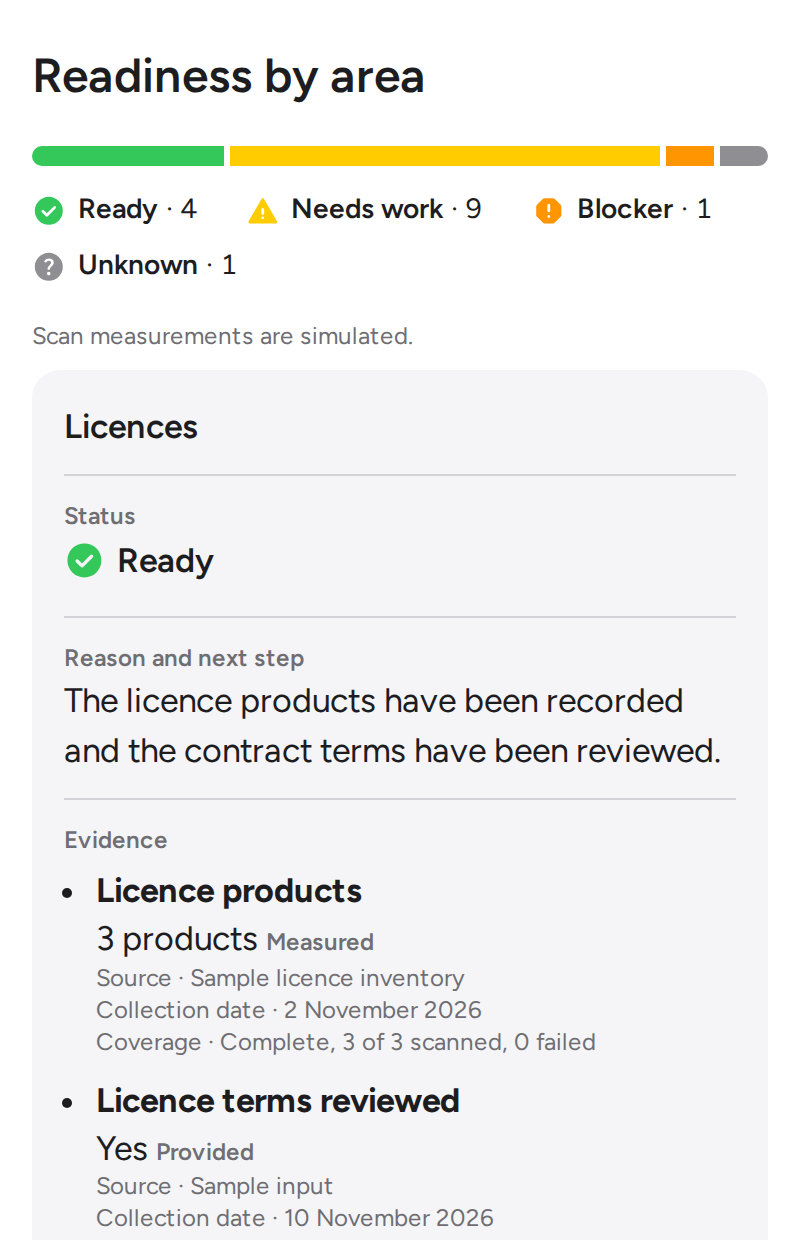
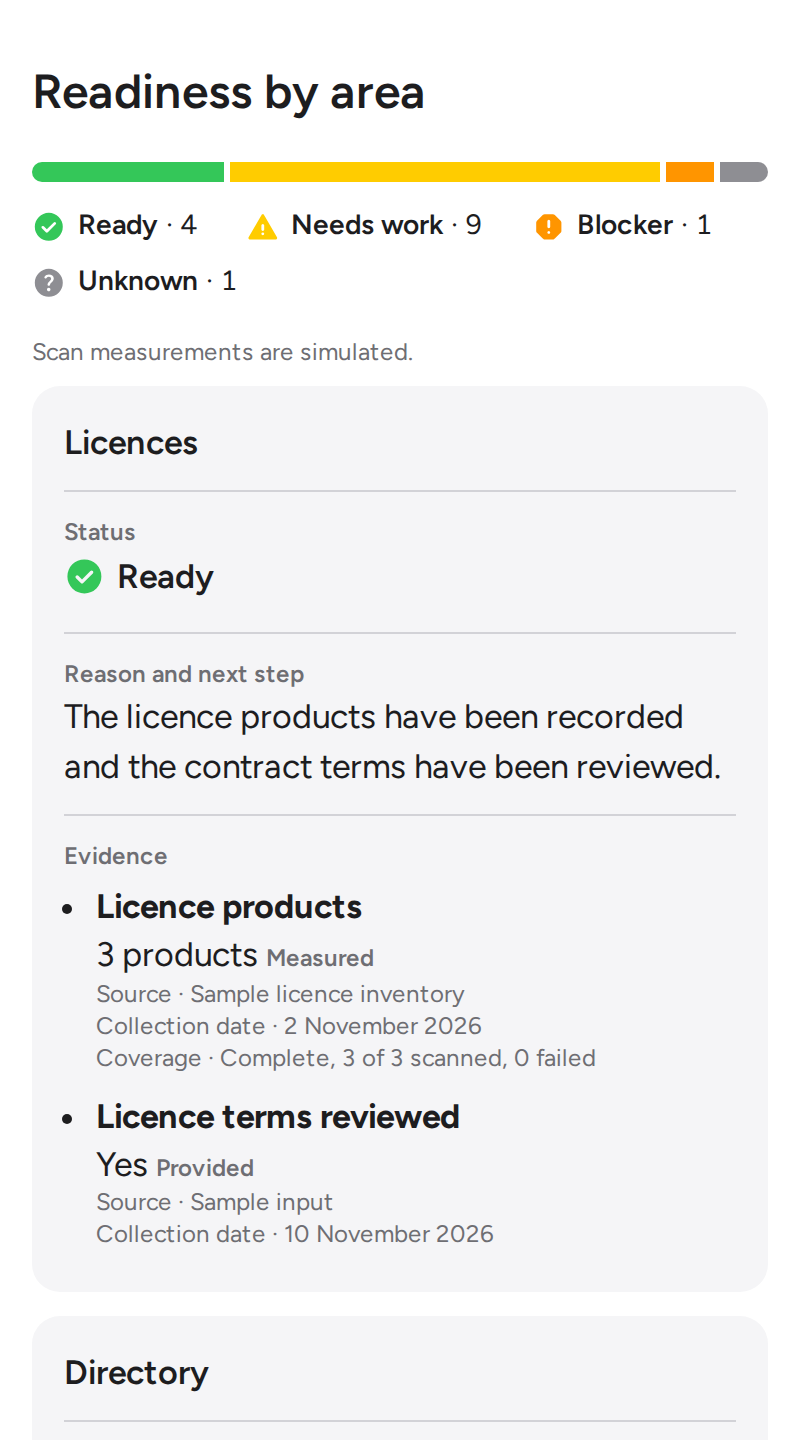
feat(site): show the sample report as a clickable window card
The hero image is now a composed shot of the readiness section in a
window-style card: the report's real file name on top, a fixed frame,
and a fade at the bottom instead of a row cut off mid-sentence. The
whole card opens the full sample report, and the caption links to it
too. Shots exist for light and dark, desktop and phone, in English
and German, all taken from the current reports by one script.

Changed region(s): [[0.0312, 0.0306, 0.9688, 1.0]]

diff --git a/site/de/index.html b/site/de/index.html
@@ -67,15 +67,18 @@
     </section>
 
     <figure class="report-preview">
-      <picture>
-        <source media="(max-width: 600px) and (prefers-color-scheme: dark)" data-dark-preview="(max-width: 600px)" srcset="/images/readiness-de-mobile-dark.png" width="800" height="1240">
-        <source media="(max-width: 600px)" srcset="/images/readiness-de-mobile-light.png" width="800" height="1240">
-        <source media="(prefers-color-scheme: dark)" data-dark-preview="" srcset="/images/readiness-de-dark.png" width="2016" height="840">
-        <img src="/images/readiness-de-light.png" width="2016" height="840" alt="Bereitschaft nach Bereich mit vier Statusstufen und den Nachweisen zum Lizenzbefund der Stadtverwaltung." decoding="async">
-      </picture>
+      <a class="report-card" href="/demo/de/">
+        <span class="report-card-bar" aria-hidden="true"><span></span><span></span><span></span><code>report-2026-11-02-de.html</code></span>
+        <picture>
+          <source media="(max-width: 600px) and (prefers-color-scheme: dark)" data-dark-preview="(max-width: 600px)" srcset="/images/readiness-de-mobile-dark.png" width="800" height="1440">
+          <source media="(max-width: 600px)" srcset="/images/readiness-de-mobile-light.png" width="800" height="1440">
+          <source media="(prefers-color-scheme: dark)" data-dark-preview="" srcset="/images/readiness-de-dark.png" width="2016" height="1120">
+          <img src="/images/readiness-de-light.png" width="2016" height="1120" alt="Abschnitt zur Bereitschaft aus dem Beispielbericht: 4 Bereiche Bereit, 9 Handlungsbedarf, 1 Hindernis, 1 Unbekannt. Öffnet den vollständigen Beispielbericht." decoding="async">
+        </picture>
+      </a>
       <figcaption>
         <span>Echte Ausgabe von Fazit, erstellt aus den Beispieldaten einer fiktiven Stadtverwaltung.</span>
-        <a href="/demo/de/#readiness-title">Abschnitt zur Bereitschaft öffnen</a>
+        <a href="/demo/de/">Beispielbericht öffnen</a>
       </figcaption>
     </figure>
 

diff --git a/site/index.html b/site/index.html
@@ -67,15 +67,18 @@
     </section>
 
     <figure class="report-preview">
-      <picture>
-        <source media="(max-width: 600px) and (prefers-color-scheme: dark)" data-dark-preview="(max-width: 600px)" srcset="/images/readiness-en-mobile-dark.png" width="800" height="1240">
-        <source media="(max-width: 600px)" srcset="/images/readiness-en-mobile-light.png" width="800" height="1240">
-        <source media="(prefers-color-scheme: dark)" data-dark-preview="" srcset="/images/readiness-en-dark.png" width="2016" height="840">
-        <img src="/images/readiness-en-light.png" width="2016" height="840" alt="The readiness section shows four status labels and the evidence behind the town’s licence finding." decoding="async">
-      </picture>
+      <a class="report-card" href="/demo/en/">
+        <span class="report-card-bar" aria-hidden="true"><span></span><span></span><span></span><code>report-2026-11-02-en.html</code></span>
+        <picture>
+          <source media="(max-width: 600px) and (prefers-color-scheme: dark)" data-dark-preview="(max-width: 600px)" srcset="/images/readiness-en-mobile-dark.png" width="800" height="1440">
+          <source media="(max-width: 600px)" srcset="/images/readiness-en-mobile-light.png" width="800" height="1440">
+          <source media="(prefers-color-scheme: dark)" data-dark-preview="" srcset="/images/readiness-en-dark.png" width="2016" height="1120">
+          <img src="/images/readiness-en-light.png" width="2016" height="1120" alt="Readiness section of the sample report: 4 areas Ready, 9 Needs work, 1 Blocker, 1 Unknown. Opens the full sample report." decoding="async">
+        </picture>
+      </a>
       <figcaption>
         <span>Real Fazit output, from the sample data for a fictional town.</span>
-        <a href="/demo/en/#readiness-title">Open the readiness section</a>
+        <a href="/demo/en/">Open the sample report</a>
       </figcaption>
     </figure>
 

diff --git a/site/style.css b/site/style.css
@@ -859,15 +859,53 @@ code {
 
 .report-preview {
   width: min(calc(100% - 2 * var(--gutter)), 62.5rem);
-  margin: 0 auto clamp(48px, 7vw, 96px);
+  margin: 0 auto clamp(64px, 8vw, 96px);
 }
 
-.report-preview img {
+/* The sample report as a window: real file name on top, fading out at the bottom, all of it a link. */
+.report-card {
+  display: block;
+  overflow: hidden;
+  border-radius: var(--radius-card);
+  background: var(--bg);
+  box-shadow: 0 0 0 1px color-mix(in srgb, var(--fg) 6%, transparent), 0 2px 4px rgb(0 0 0 / 4%), 0 24px 48px -12px rgb(0 0 0 / 18%);
+  transition: box-shadow 0.4s var(--ease), transform 0.4s var(--ease);
+}
+
+.report-card:hover {
+  box-shadow: 0 0 0 1px color-mix(in srgb, var(--fg) 8%, transparent), 0 4px 8px rgb(0 0 0 / 5%), 0 32px 64px -12px rgb(0 0 0 / 24%);
+  transform: translateY(-2px);
+}
+
+.report-card-bar {
+  display: flex;
+  align-items: center;
+  gap: 6px;
+  height: 36px;
+  padding-inline: 14px;
+  background: var(--fill);
+}
+
+.report-card-bar > span {
+  width: 10px;
+  height: 10px;
+  border-radius: 50%;
+  background: var(--fill-2);
+}
+
+.report-card-bar code {
+  flex: 1;
+  margin-inline-end: 48px;
+  color: var(--fg-2);
+  font-size: var(--fs-footnote);
+  text-align: center;
+}
+
+.report-card img {
   display: block;
   width: 100%;
   height: auto;
-  border-radius: var(--radius-card);
-  box-shadow: 0 1px 2px rgb(0 0 0 / 6%), 0 12px 32px rgb(0 0 0 / 8%);
+  mask-image: linear-gradient(to bottom, #000 70%, transparent);
 }
 
 .report-preview figcaption {
@@ -891,7 +929,6 @@ code {
   .hero {
     padding-top: 48px;
   }
-
 
   .command-line {
     display: grid;
